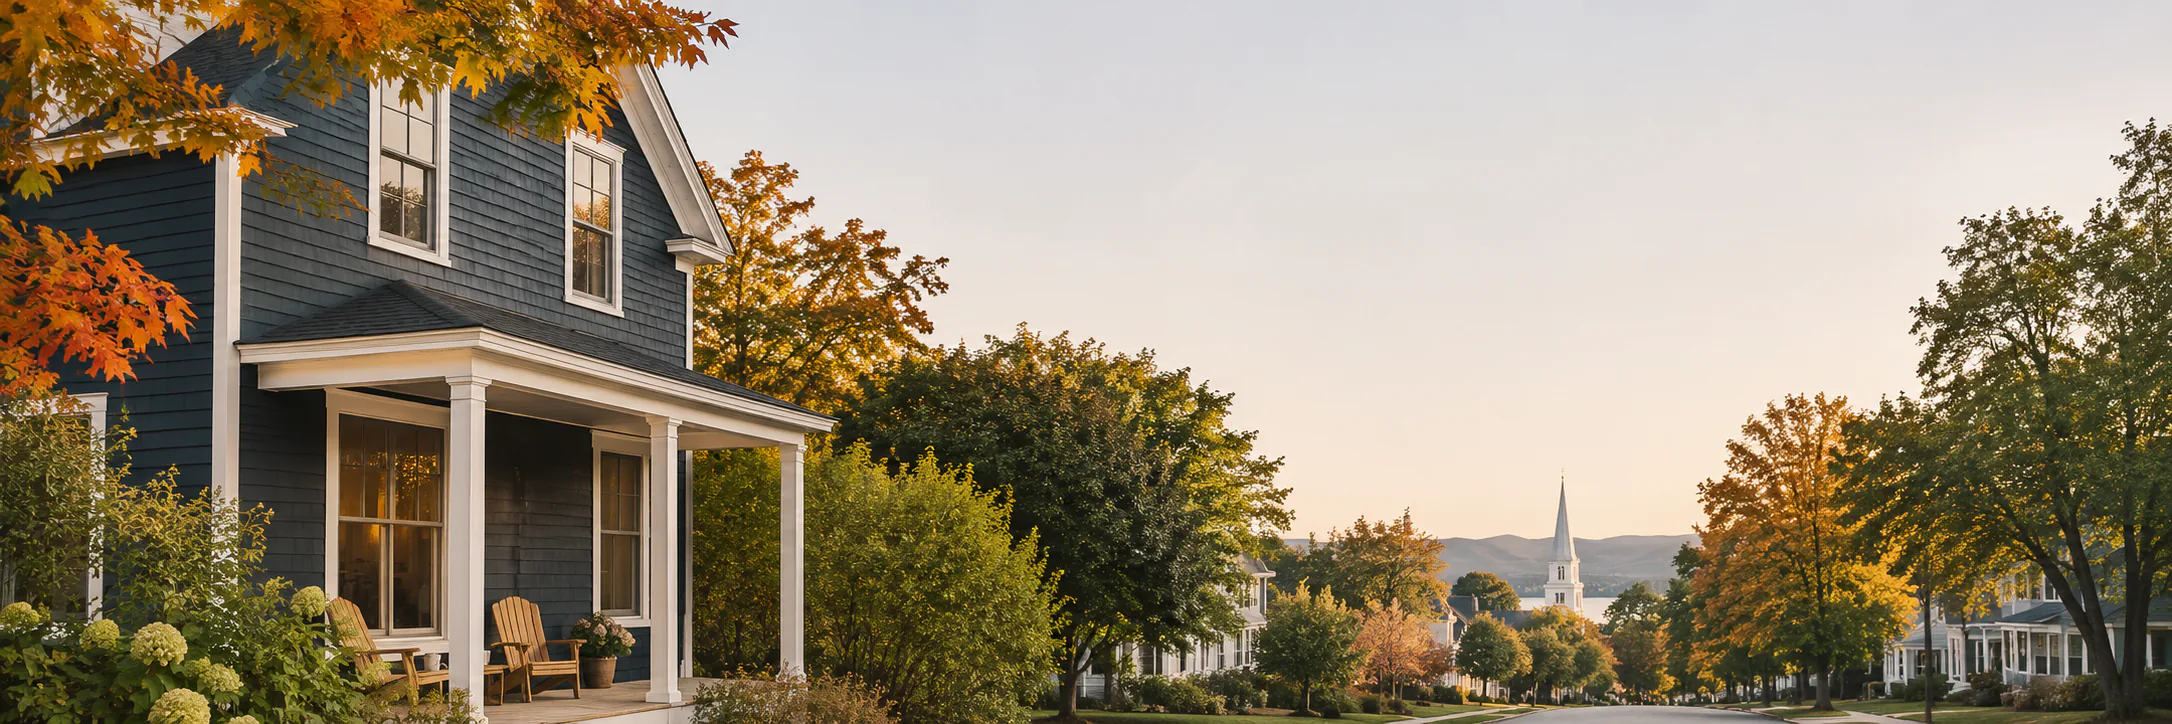
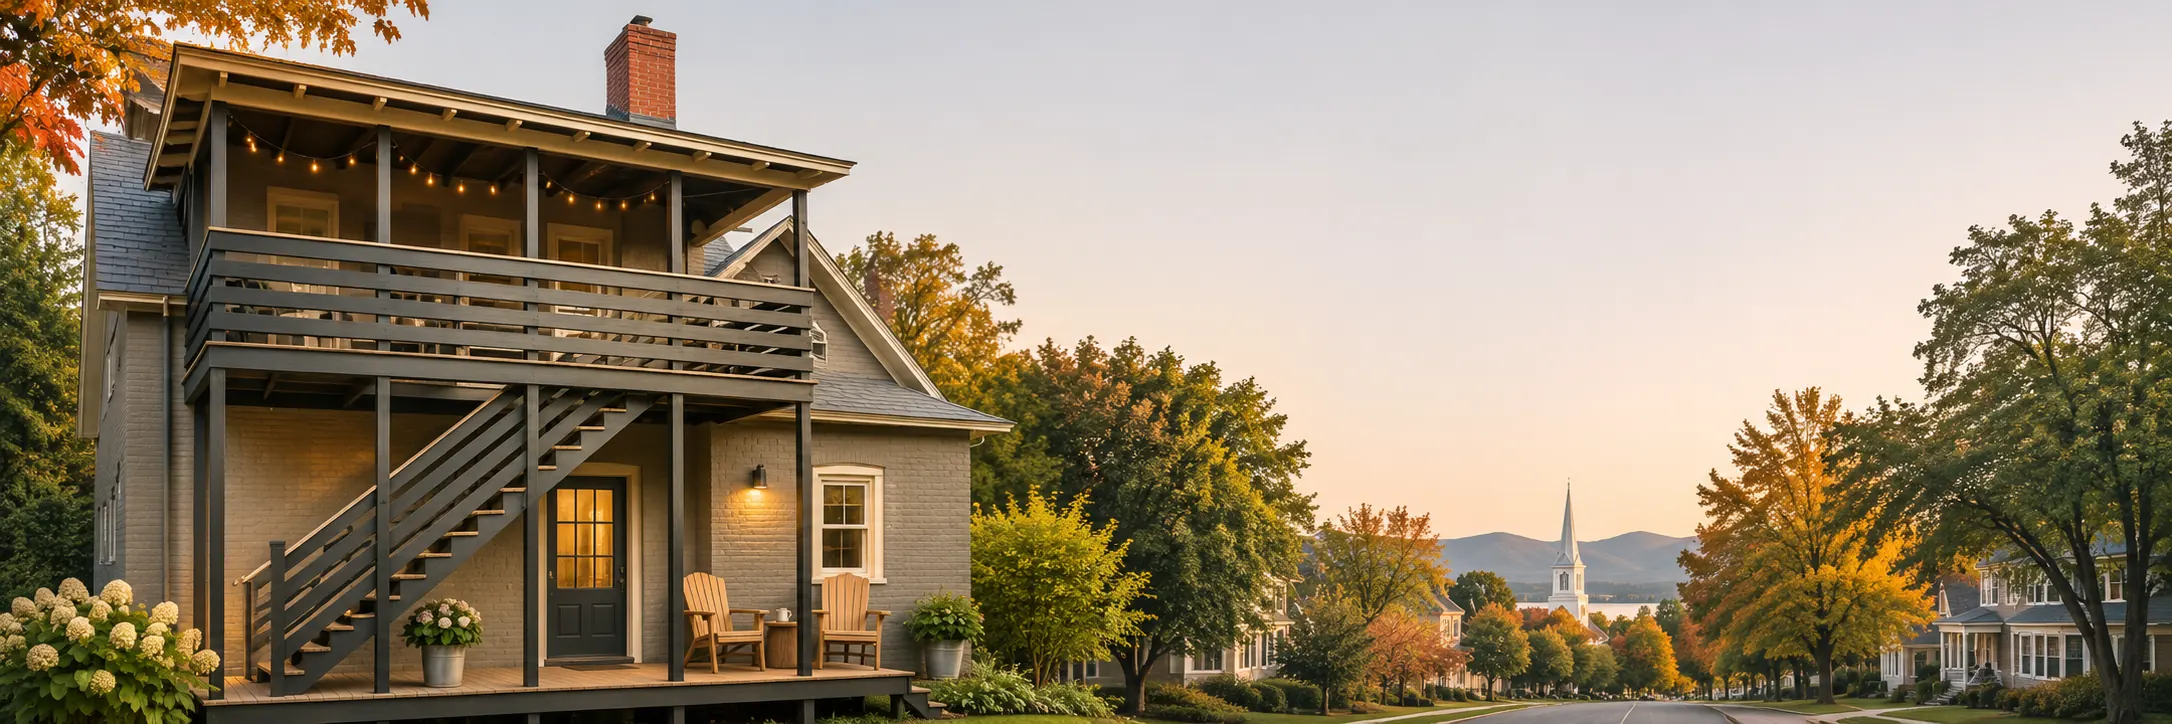
New Queen City hero and place-name kicker

diff --git a/src/components/errin/errin-home.tsx b/src/components/errin/errin-home.tsx
@@ -28,18 +28,18 @@ export function ErrinHome({
               preload
               fetchPriority="high"
               sizes="100vw"
-              className="block h-[min(68svh,36rem)] w-full object-cover object-[78%_36%] sm:object-[72%_40%] md:h-[min(62svh,34rem)] md:object-[68%_42%]"
+              className="block h-[min(68svh,36rem)] w-full object-cover object-[18%_42%] sm:object-[22%_44%] md:h-[min(62svh,34rem)] md:object-[26%_46%]"
             />
-            {/* Dark gradient keeps white brand type readable over the photo. */}
+            {/* House sits left; darken the left so white type stays AA-readable. */}
             <div
-              className="pointer-events-none absolute inset-0 bg-[linear-gradient(105deg,transparent_18%,rgb(20_20_20_/_0.28)_48%,rgb(14_14_14_/_0.72)_100%)]"
+              className="pointer-events-none absolute inset-0 bg-[linear-gradient(95deg,rgb(14_14_14_/_0.72)_0%,rgb(20_20_20_/_0.42)_38%,transparent_72%)]"
               aria-hidden="true"
             />
             <div className="pointer-events-none absolute inset-0">
-              <div className="mx-auto flex h-full w-full max-w-6xl items-start justify-end px-5 pt-14 sm:pt-16 md:items-center md:pt-0 md:pr-6 lg:pr-10">
-                <div className="max-w-[13.5rem] sm:max-w-[18rem] md:max-w-md">
-                  <p className="text-[0.65rem] font-medium uppercase tracking-[0.28em] text-white/90 md:text-[0.7rem]">
-                    {site.shortName}
+              <div className="mx-auto flex h-full w-full max-w-6xl items-end px-5 pb-10 sm:pb-12 md:items-center md:pb-0 md:pl-6 lg:pl-10">
+                <div className="max-w-[16rem] sm:max-w-[20rem] md:max-w-lg">
+                  <p className="text-[0.65rem] font-medium uppercase tracking-[0.28em] text-white md:text-[0.7rem]">
+                    <Tx k="errinHeroPlaces" />
                   </p>
                   <h1 className="mt-2 font-[family-name:var(--font-errin-display,var(--font-display))] text-[clamp(2.1rem,7.5vw,4.25rem)] leading-[0.95] tracking-tight text-white md:mt-3">
                     {site.name}
@@ -52,7 +52,7 @@ export function ErrinHome({
           <div className="flex h-[min(62svh,34rem)] w-full items-end bg-[var(--beige)] px-5 pb-12 md:pb-16">
             <div className="mx-auto w-full max-w-6xl">
               <p className="text-[0.7rem] font-medium uppercase tracking-[0.28em] text-[var(--muted-foreground)]">
-                {site.shortName}
+                <Tx k="errinHeroPlaces" />
               </p>
               <h1 className="mt-4 max-w-3xl font-[family-name:var(--font-errin-display,var(--font-display))] text-[clamp(2.75rem,8vw,5.5rem)] leading-[0.95] tracking-tight text-[var(--charcoal)]">
                 {site.name}

diff --git a/src/lib/i18n/messages.ts b/src/lib/i18n/messages.ts
@@ -190,6 +190,7 @@ const en = {
   openingYear: "Opening 2027",
   comingSoonWaterburyNote: "New hideouts coming to Waterbury in 2027.",
   errinHostedBy: "Hosted by Errin. Superhost. 8 years of hosting.",
+  errinHeroPlaces: "Winooski  ·  Burlington  ·  Vermont",
   staysLabel: "Stays",
   whatsIncluded: "What's Included",
   includedKayak: "Two-person kayak",
@@ -491,6 +492,7 @@ const es: Record<MessageKey, string> = {
   openingYear: "Apertura 2027",
   comingSoonWaterburyNote: "Nuevos refugios llegan a Waterbury en 2027.",
   errinHostedBy: "Anfitriona: Errin. Superhost. 8 años de experiencia.",
+  errinHeroPlaces: "Winooski  ·  Burlington  ·  Vermont",
   staysLabel: "Estancias",
   whatsIncluded: "Qué incluye",
   includedKayak: "Kayak para dos",
@@ -793,6 +795,7 @@ const fr: Record<MessageKey, string> = {
   openingYear: "Ouverture 2027",
   comingSoonWaterburyNote: "De nouvelles planques arrivent à Waterbury en 2027.",
   errinHostedBy: "Hébergé par Errin. Superhost. 8 ans d'expérience.",
+  errinHeroPlaces: "Winooski  ·  Burlington  ·  Vermont",
   staysLabel: "Séjours",
   whatsIncluded: "Ce qui est inclus",
   includedKayak: "Kayak pour deux",

diff --git a/src/sites/errin.ts b/src/sites/errin.ts
@@ -28,7 +28,7 @@ export const errinSite: SiteConfig = {
     src: "/sites/errin/hero.webp",
     width: 2172,
     height: 724,
-    alt: "Autumn evening on a Burlington street with lake and mountains beyond",
+    alt: "Autumn evening at a Winooski house with deck, with Burlington, the lake, and mountains beyond",
   },
   logos: [],
   artworkOrder: ["winooski-flat", "mill-house", "maple-street-flat"],
